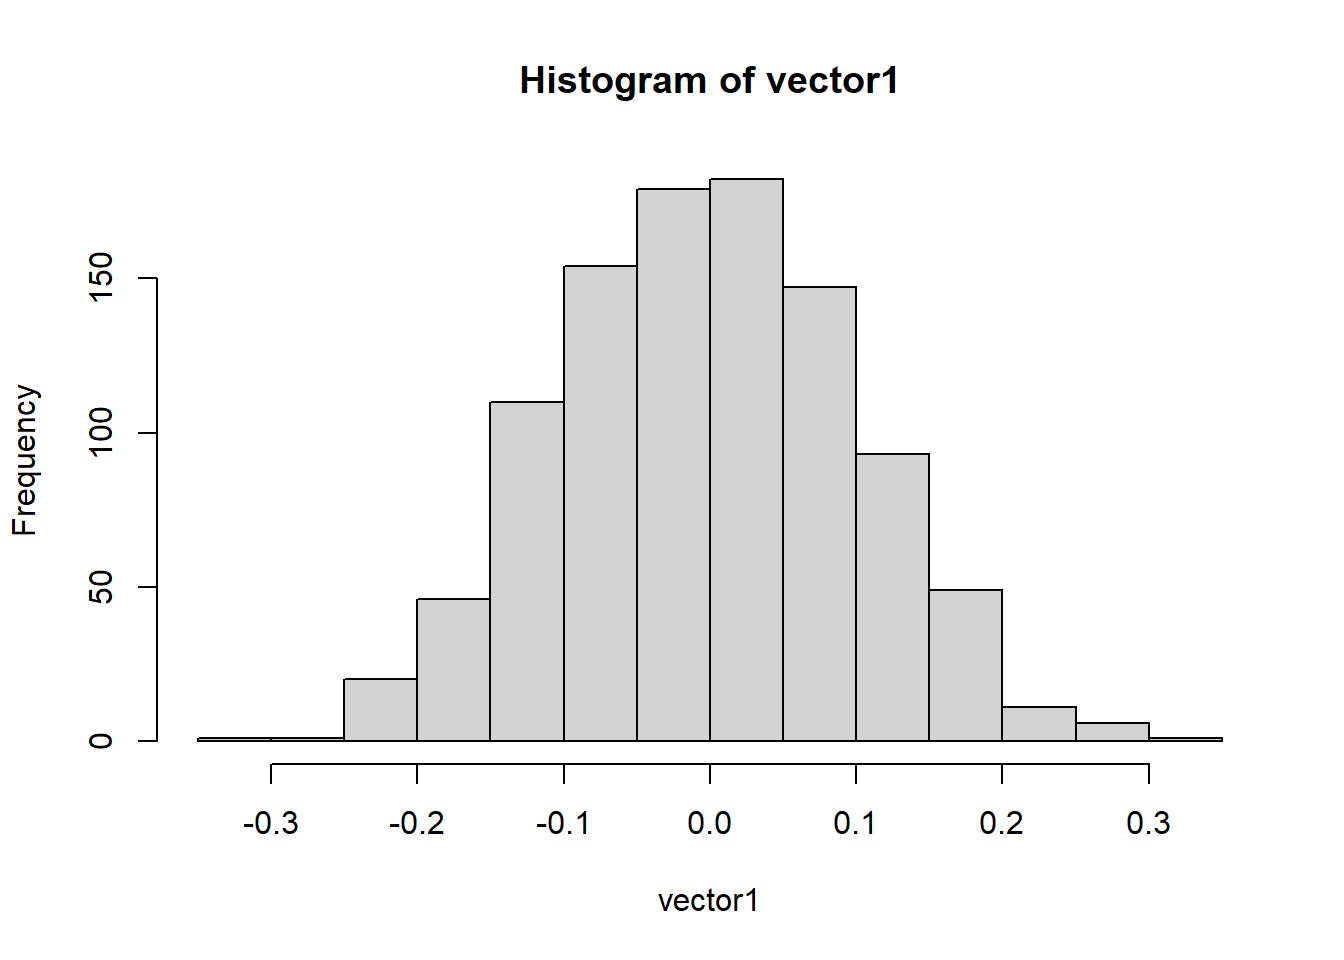
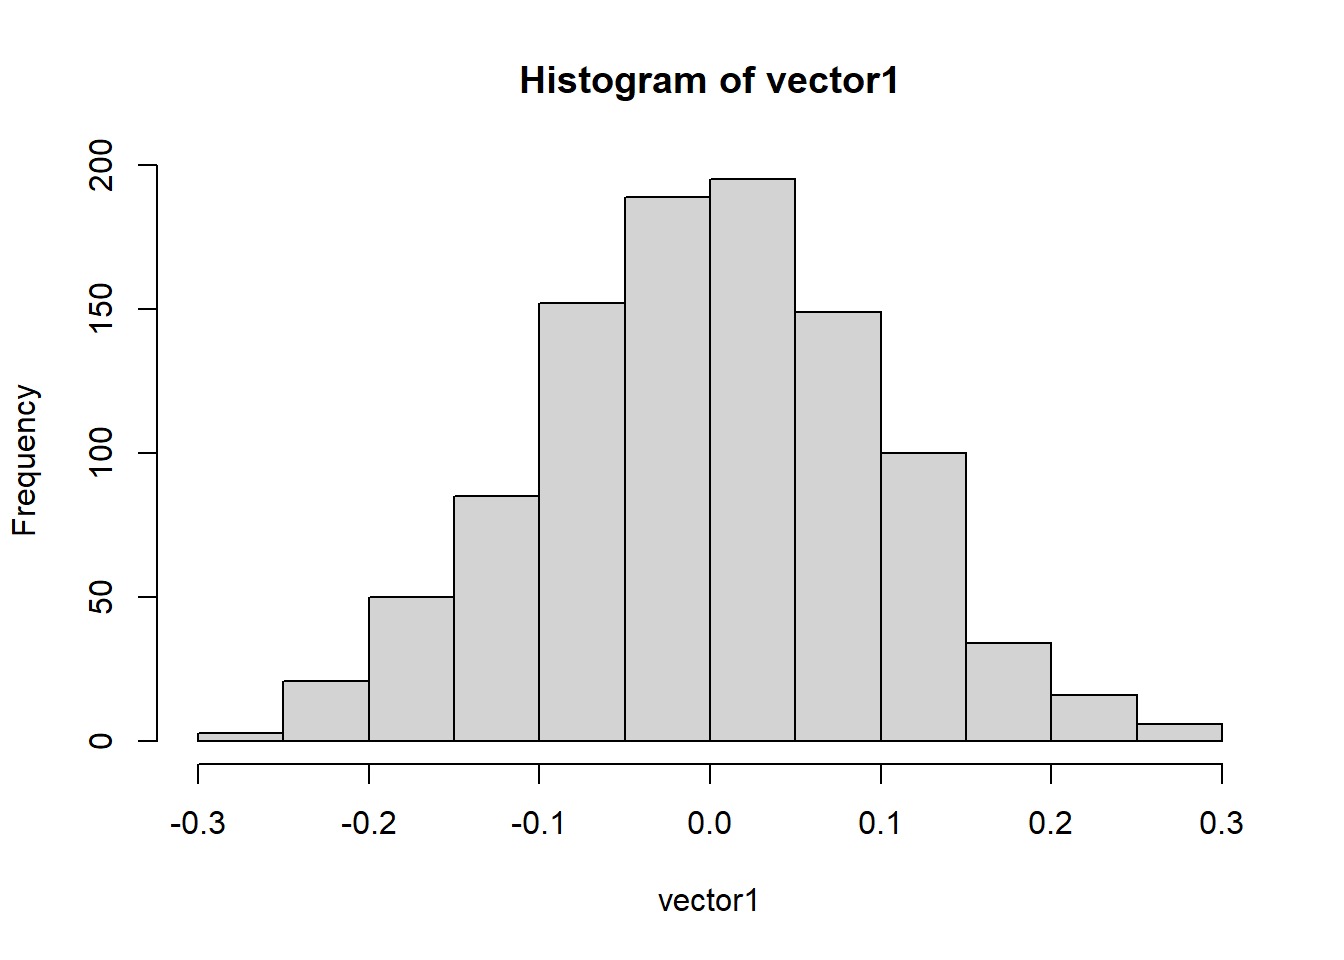
add lesson 3

diff --git a/content/collection/introduction_r/lesson3/lesson-3.md b/content/collection/introduction_r/lesson3/lesson-3.md
@@ -25,7 +25,7 @@ t_by_hand
 ```
 
 ```
-## [1] -0.8421826
+## [1] 0.4965651
 ```
 
 3. Perform the t-test using the function from R and compare the values
@@ -39,13 +39,13 @@ t.test(sample1)
 ## 	One Sample t-test
 ## 
 ## data:  sample1
-## t = -0.84218, df = 99, p-value = 0.4017
+## t = 0.49657, df = 99, p-value = 0.6206
 ## alternative hypothesis: true mean is not equal to 0
 ## 95 percent confidence interval:
-##  -0.3087231  0.1247426
+##  -0.1447406  0.2413668
 ## sample estimates:
-##   mean of x 
-## -0.09199026
+##  mean of x 
+## 0.04831313
 ```
 
 ```r
@@ -71,7 +71,7 @@ By using function ``replicate``
   hist(vector1)
   ```
   
-  <img src="/collection/introduction_r/lesson3/lesson 3_files/figure-html/unnamed-chunk-4-1.png" width="672" />
+  <img src="/collection/introduction_r/lesson3/lesson-3_files/figure-html/unnamed-chunk-4-1.png" width="672" />
 
 By using a loop
   
@@ -83,7 +83,7 @@ By using a loop
   hist(vector2)
   ```
   
-  <img src="/collection/introduction_r/lesson3/lesson 3_files/figure-html/unnamed-chunk-5-1.png" width="672" />
+  <img src="/collection/introduction_r/lesson3/lesson-3_files/figure-html/unnamed-chunk-5-1.png" width="672" />
 
  We can plot those two in 1 figure
   
@@ -93,7 +93,7 @@ By using a loop
   hist(vector2)
   ```
   
-  <img src="/collection/introduction_r/lesson3/lesson 3_files/figure-html/unnamed-chunk-6-1.png" width="672" />
+  <img src="/collection/introduction_r/lesson3/lesson-3_files/figure-html/unnamed-chunk-6-1.png" width="672" />
   
   ```r
   par(mfrow=c(1,1)) #Back to default
@@ -113,7 +113,7 @@ plot(STH, TestScore, xlim = c(0,20), ylim = c(0,15))
 abline(a=0, b=0.5)  #a=intercept b=slope. 
 ```
 
-<img src="/collection/introduction_r/lesson3/lesson 3_files/figure-html/unnamed-chunk-8-1.png" width="672" />
+<img src="/collection/introduction_r/lesson3/lesson-3_files/figure-html/unnamed-chunk-8-1.png" width="672" />
 
 Including an intercept 
 
@@ -123,7 +123,7 @@ plot(STH, TestScore, xlim = c(0,20), ylim = c(0,15))
 abline(a=2, b=0.5)  
 ```
 
-<img src="/collection/introduction_r/lesson3/lesson 3_files/figure-html/unnamed-chunk-9-1.png" width="672" />
+<img src="/collection/introduction_r/lesson3/lesson-3_files/figure-html/unnamed-chunk-9-1.png" width="672" />
 
 ## Estimate coefficient
 We need some packages for this session
@@ -195,7 +195,7 @@ plot(score ~ STR,
      ylab = "Test Score (Y)")
 ```
 
-<img src="/collection/introduction_r/lesson3/lesson 3_files/figure-html/unnamed-chunk-14-1.png" width="672" />
+<img src="/collection/introduction_r/lesson3/lesson-3_files/figure-html/unnamed-chunk-14-1.png" width="672" />
 
 ```r
 cor(CASchools$STR, CASchools$score) #Correlation. Negative, but weak
@@ -278,7 +278,7 @@ plot(score ~ STR,
 abline(linear_model) 
 ```
 
-<img src="/collection/introduction_r/lesson3/lesson 3_files/figure-html/unnamed-chunk-18-1.png" width="672" />
+<img src="/collection/introduction_r/lesson3/lesson-3_files/figure-html/unnamed-chunk-18-1.png" width="672" />
 
 ## Measure of fit
 R provides a bunch of summary statistics
@@ -378,7 +378,7 @@ abline(mod_simple, col = "red")
 lines(sort(X), prediction)
 ```
 
-<img src="/collection/introduction_r/lesson3/lesson 3_files/figure-html/unnamed-chunk-22-1.png" width="672" />
+<img src="/collection/introduction_r/lesson3/lesson-3_files/figure-html/unnamed-chunk-22-1.png" width="672" />
 
 ```r
 #E(Ei|Xi) varies with the Xi.
@@ -415,7 +415,7 @@ plot(x = Date,
      xlab = "Time")
 ```
 
-<img src="/collection/introduction_r/lesson3/lesson 3_files/figure-html/unnamed-chunk-24-1.png" width="672" />
+<img src="/collection/introduction_r/lesson3/lesson-3_files/figure-html/unnamed-chunk-24-1.png" width="672" />
 
 The  level of today's employment is correlated with tomorrows employment level. Thus, the i.i.d. assumption is violated.
 
@@ -447,7 +447,7 @@ abline(fit)
 abline(fitWithoutOutlier, col = "red")
 ```
 
-<img src="/collection/introduction_r/lesson3/lesson 3_files/figure-html/unnamed-chunk-26-1.png" width="672" />
+<img src="/collection/introduction_r/lesson3/lesson-3_files/figure-html/unnamed-chunk-26-1.png" width="672" />
 
 ## Exercise 
 We can check the unbiasedness and consistency of OLS estimators via MONTE CARLO simulations
